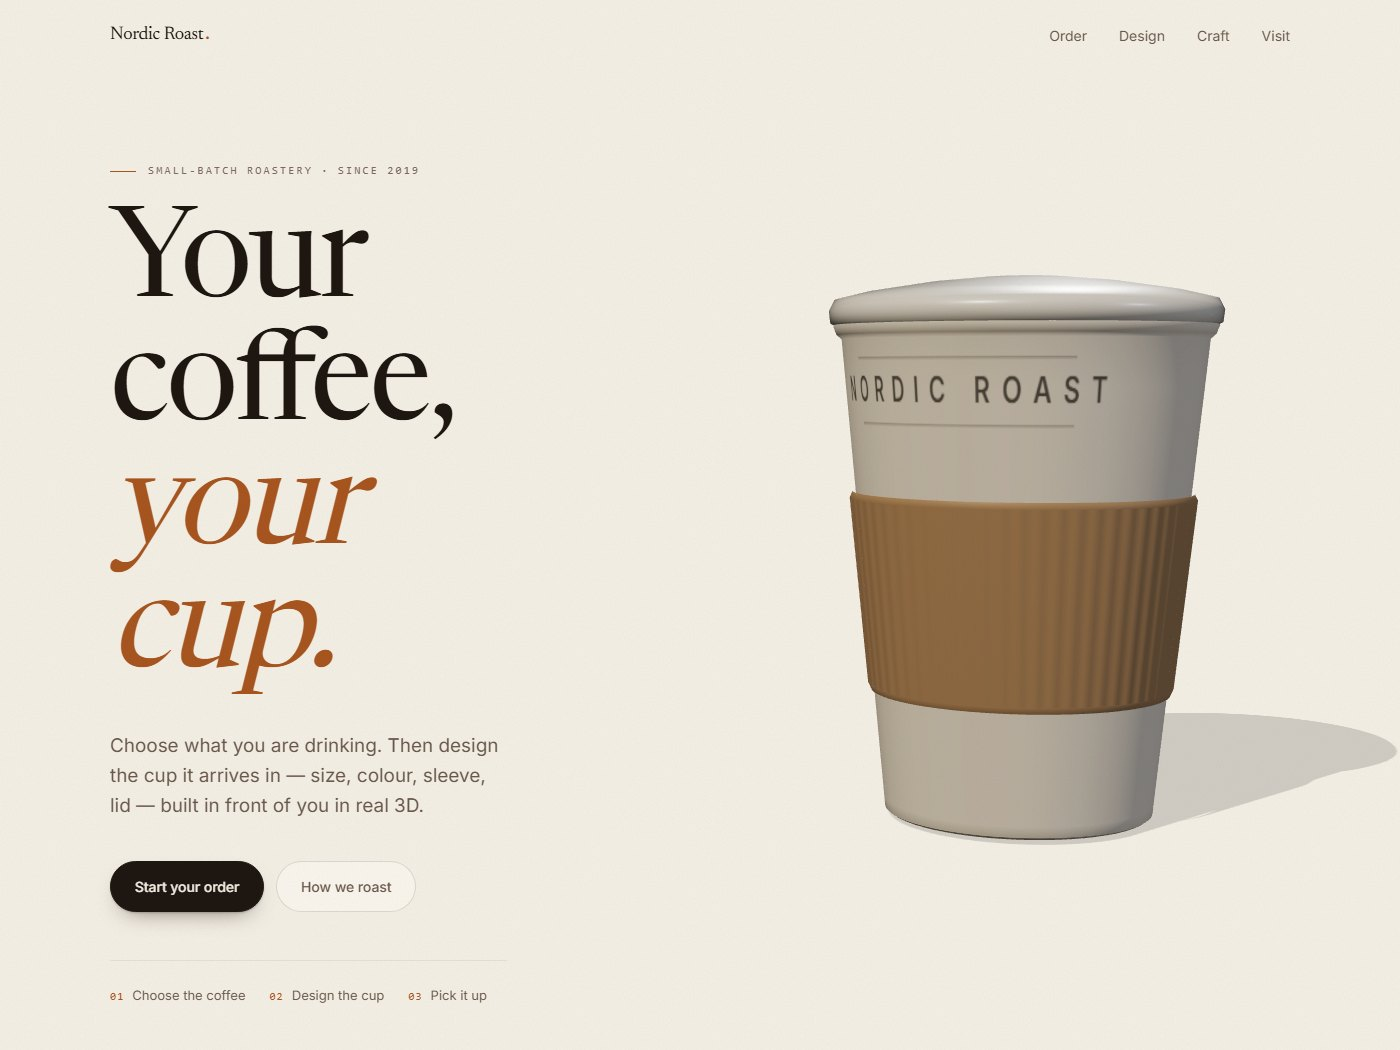
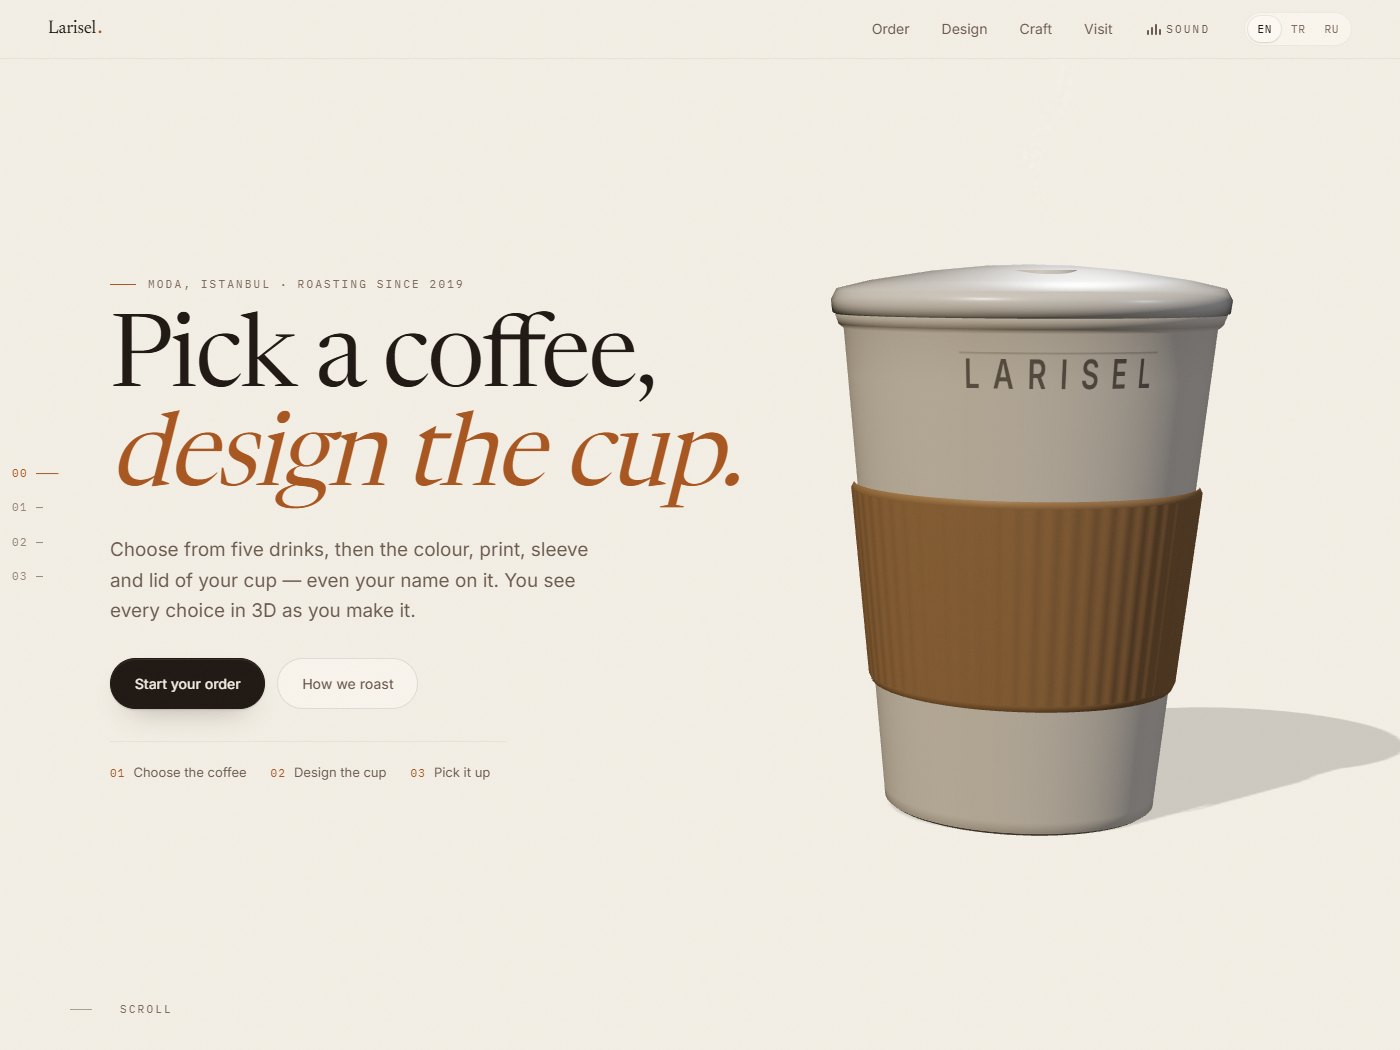
Kafe projesi karti: Larisel Kafe (yeni aciklama: film, 3B bardak, fis, QR masa, kahve fali; yeni gorsel); TR/RU proje numaralari duzeltildi (02,02,03,04 -> 03,04,05)

diff --git a/js/i18n.js b/js/i18n.js
@@ -51,9 +51,10 @@
       "Every project below is live. Open it, rotate it, break it — that is the point.":
         "Aşağıdaki her proje canlı. Açın, döndürün, zorlayın — amaç tam olarak bu.",
 
-      "03 — Interactive site": "02 — İnteraktif site",
-      "A cafe site where the product is the interface. One 3D cup is driven by both the page scroll and a live configurator — size, colour, sleeve and lid, with the price following along. Drag to turn it.":
-        "Ürünün kendisinin arayüz olduğu bir kafe sitesi. Tek bir 3B bardağı hem sayfa kaydırması hem canlı yapılandırıcı sürüyor — ölçü, renk, kolluk ve kapak; fiyat da anında güncelleniyor. Sürükleyerek döndürebilirsiniz.",
+      "03 — Interactive site": "03 — İnteraktif site",
+      "Larisel Café": "Larisel Kafe",
+      "A café site where the product is the interface: a scroll-driven film from bean to cup, a live 3D cup you design — colour, print, your name — a printed order ticket, ordering from the table by QR with a split bill, and a coffee reading from a photo of your own cup.":
+        "Ürünün kendisinin arayüz olduğu bir kafe sitesi: çekirdekten bardağa kaydırmalı bir film, canlı 3B’de tasarlanan bardak (renk, desen, adın), basılı sipariş fişi, QR ile masadan sipariş ve hesap bölme, kendi fincanının fotoğrafından kahve falı.",
       "02 — Interior configurator": "02 — İç mekân yapılandırıcı",
       "Interior materials": "İç mekân malzemeleri",
       "A room the client changes while standing in it: floor, worktop, cabinet fronts and wall colour, with a daylight-to-evening switch. Every material is generated in code, so nothing is downloaded and it opens on a phone.":
@@ -64,11 +65,11 @@
       "A real-time 3D configurator: six fabrics, four frame finishes, two sizes, with the price and lead time recalculating as the customer builds the product. Runs in the browser, no plugin, works on a phone.":
         "Gerçek zamanlı 3B yapılandırıcı: altı kumaş, dört gövde kaplaması, iki ölçü; müşteri ürünü kurdukça fiyat ve teslim süresi anında güncelleniyor. Tarayıcıda çalışır, eklenti istemez, telefonda da açılır.",
 
-      "04 — Corporate site": "03 — Kurumsal site",
+      "04 — Corporate site": "04 — Kurumsal site",
       "A corporate site for a fictional holding working across retail, construction and energy. Three languages from a single set of pages, a 3D building model on the construction section, and a design system built on tokens rather than one-off values.":
         "Market, inşaat ve enerji alanlarında çalışan kurgusal bir holding için kurumsal site. Tek sayfa takımından üç dil, inşaat bölümünde 3B bina modeli ve tek seferlik değerler yerine token'lara dayanan bir tasarım sistemi.",
 
-      "05 — Automation": "04 — Otomasyon",
+      "05 — Automation": "05 — Otomasyon",
       "Furniture shop order bot": "Mobilya mağazası sipariş botu",
       "A Telegram bot that carries a catalog, a cart and a five-step checkout, with an admin panel and Excel export behind it. Built so an order can never be silently lost — every step is validated and persisted.":
         "Katalog, sepet ve beş adımlı sipariş akışı taşıyan; arkasında yönetici paneli ve Excel dışa aktarımı olan bir Telegram botu. Hiçbir sipariş sessizce kaybolmasın diye kuruldu — her adım doğrulanır ve kaydedilir.",
@@ -162,9 +163,10 @@
       "Every project below is live. Open it, rotate it, break it — that is the point.":
         "Каждый проект ниже — живой. Откройте, покрутите, попробуйте сломать: в этом и смысл.",
 
-      "03 — Interactive site": "02 — Интерактивный сайт",
-      "A cafe site where the product is the interface. One 3D cup is driven by both the page scroll and a live configurator — size, colour, sleeve and lid, with the price following along. Drag to turn it.":
-        "Сайт кофейни, где интерфейсом служит сам товар. Один 3D-стакан ведут и прокрутка страницы, и живой конфигуратор — размер, цвет, держатель и крышка, а цена меняется следом. Стакан можно крутить мышью.",
+      "03 — Interactive site": "03 — Интерактивный сайт",
+      "Larisel Café": "Кафе Larisel",
+      "A café site where the product is the interface: a scroll-driven film from bean to cup, a live 3D cup you design — colour, print, your name — a printed order ticket, ordering from the table by QR with a split bill, and a coffee reading from a photo of your own cup.":
+        "Сайт кофейни, где продукт и есть интерфейс: фильм от зерна до чашки при прокрутке, живой 3D-стакан, который вы оформляете сами, — цвет, узор, ваше имя, — печатный чек заказа, заказ со стола по QR с разделением счёта и гадание по фото вашей чашки.",
       "02 — Interior configurator": "02 — Конфигуратор интерьера",
       "Interior materials": "Материалы интерьера",
       "A room the client changes while standing in it: floor, worktop, cabinet fronts and wall colour, with a daylight-to-evening switch. Every material is generated in code, so nothing is downloaded and it opens on a phone.":
@@ -175,11 +177,11 @@
       "A real-time 3D configurator: six fabrics, four frame finishes, two sizes, with the price and lead time recalculating as the customer builds the product. Runs in the browser, no plugin, works on a phone.":
         "3D-конфигуратор в реальном времени: шесть тканей, четыре отделки каркаса, два размера, а цена и срок пересчитываются прямо по ходу сборки. Работает в браузере, без плагинов, в том числе на телефоне.",
 
-      "04 — Corporate site": "03 — Корпоративный сайт",
+      "04 — Corporate site": "04 — Корпоративный сайт",
       "A corporate site for a fictional holding working across retail, construction and energy. Three languages from a single set of pages, a 3D building model on the construction section, and a design system built on tokens rather than one-off values.":
         "Корпоративный сайт вымышленного холдинга, работающего в ритейле, строительстве и энергетике. Три языка на одном наборе страниц, 3D-модель здания в разделе строительства и дизайн-система на токенах вместо разовых значений.",
 
-      "05 — Automation": "04 — Автоматизация",
+      "05 — Automation": "05 — Автоматизация",
       "Furniture shop order bot": "Бот заказов мебельного магазина",
       "A Telegram bot that carries a catalog, a cart and a five-step checkout, with an admin panel and Excel export behind it. Built so an order can never be silently lost — every step is validated and persisted.":
         "Telegram-бот с каталогом, корзиной и оформлением заказа в пять шагов, с админ-панелью и выгрузкой в Excel. Сделан так, чтобы заказ не терялся молча: каждый шаг проверяется и сохраняется.",

diff --git a/index.html b/index.html
@@ -166,18 +166,16 @@
         <!-- 03 -->
         <article class="project reveal">
           <div class="project__media">
-            <img src="./img/work/cafe-1.jpg" alt="A 3D coffee cup with a kraft sleeve, configured in the browser" width="1400" height="1050" loading="lazy" decoding="async">
+            <img src="./img/work/cafe-1.jpg?v=2" alt="A 3D coffee cup with a kraft sleeve, configured in the browser" width="1400" height="1050" loading="lazy" decoding="async">
           </div>
           <div class="project__body">
             <span class="label label--rule project__index">03 — Interactive site</span>
-            <h3 class="project__title">Nordic Roast</h3>
+            <h3 class="project__title">Larisel Café</h3>
             <p class="project__desc">
-              A cafe site where the product is the interface. One 3D cup is driven
-              by both the page scroll and a live configurator — size, colour,
-              sleeve and lid, with the price following along. Drag to turn it.
+              A café site where the product is the interface: a scroll-driven film from bean to cup, a live 3D cup you design — colour, print, your name — a printed order ticket, ordering from the table by QR with a split bill, and a coffee reading from a photo of your own cup.
             </p>
             <ul class="project__stack">
-              <li>Three.js</li><li>Scroll-driven</li><li>PBR materials</li><li>Vanilla JS</li>
+              <li>Three.js</li><li>Blender film</li><li>Scroll-driven</li><li>Vanilla JS</li>
             </ul>
             <div class="project__links">
               <a class="btn btn--primary" href="https://larisel.com/cafe-3d/" target="_blank" rel="noopener">Open live</a>
